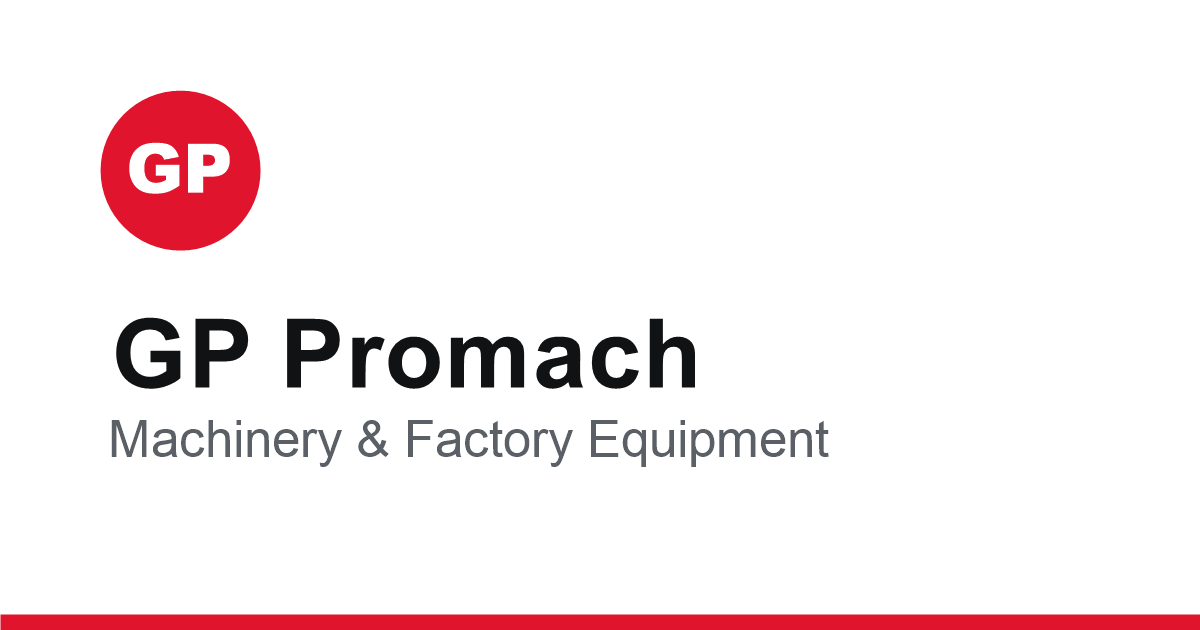
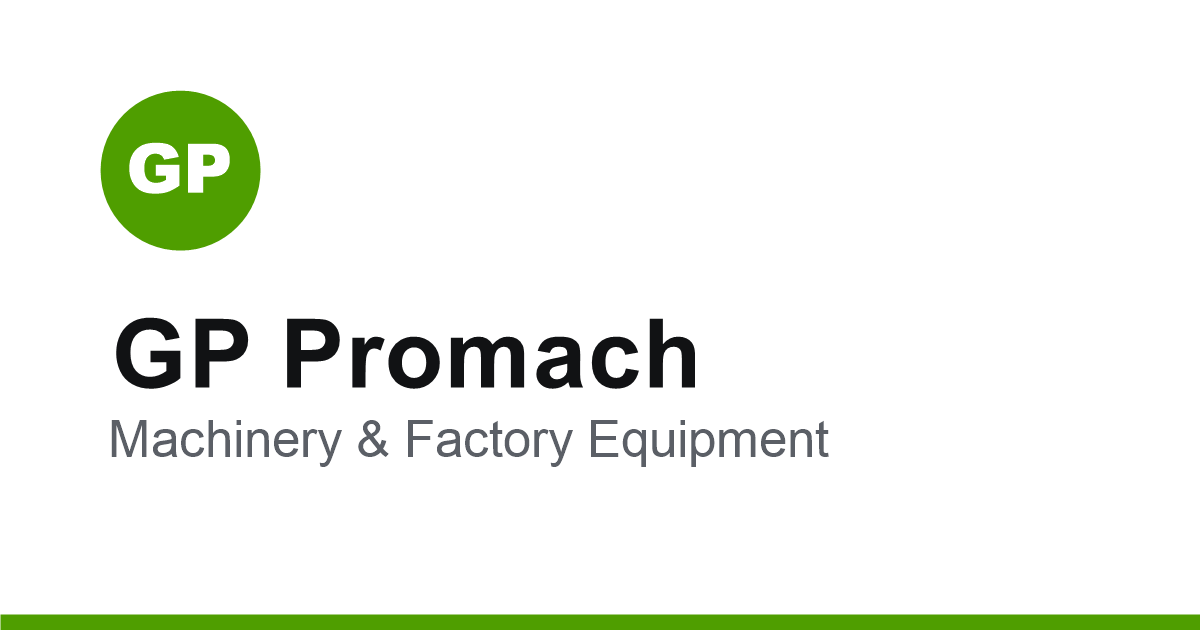
Change brand color from red to lime green

Changed region(s): [[0.0, 0.9651, 1.0, 1.0], [0.0617, 0.1206, 0.2158, 0.4222]]

diff --git a/public/index.html b/public/index.html
@@ -27,8 +27,8 @@
     --bg:#ffffff;
     --bg-alt:#f5f6f7;        /* light section */
     --bg-dark:#0d0e10;       /* dark section */
-    --red:#e0142c;           /* brand accent */
-    --red-deep:#b30f22;
+    --red:#4f9e00;           /* brand accent (lime green) */
+    --red-deep:#3d7a00;
     --radius:14px;
     --wrap:1120px;
   }
@@ -50,7 +50,7 @@
   header{position:sticky;top:0;z-index:50;background:rgba(255,255,255,.8);backdrop-filter:saturate(180%) blur(18px);border-bottom:1px solid var(--line)}
   nav{display:flex;align-items:center;justify-content:space-between;height:64px}
   .brand{display:flex;align-items:center;gap:12px;font-weight:600}
-  .logo{width:38px;height:38px;border-radius:50%;background:var(--red);display:grid;place-items:center;color:#fff;font-family:'Space Grotesk',sans-serif;font-weight:700;font-size:1rem;letter-spacing:.02em;box-shadow:0 2px 10px rgba(224,20,44,.35)}
+  .logo{width:38px;height:38px;border-radius:50%;background:var(--red);display:grid;place-items:center;color:#fff;font-family:'Space Grotesk',sans-serif;font-weight:700;font-size:1rem;letter-spacing:.02em;box-shadow:0 2px 10px rgba(79,158,0,.32)}
   .brand-name{font-size:1.05rem}
   .brand-name small{display:block;font-size:.68rem;font-weight:500;color:var(--ink-soft);letter-spacing:.08em;text-transform:uppercase;line-height:1}
   .navlinks{display:flex;gap:34px;font-size:.92rem;font-weight:500;margin-left:auto}
@@ -91,7 +91,7 @@
   .grid{display:grid;grid-template-columns:repeat(3,1fr);gap:22px}
   .card{background:var(--bg);border:1px solid var(--line);border-radius:var(--radius);padding:34px 30px;transition:transform .2s ease,box-shadow .2s ease}
   .card:hover{transform:translateY(-4px);box-shadow:0 18px 40px rgba(17,18,20,.08)}
-  .card .ico{width:44px;height:44px;border-radius:11px;background:#fdeaed;display:grid;place-items:center;margin-bottom:20px}
+  .card .ico{width:44px;height:44px;border-radius:11px;background:#e8f5d6;display:grid;place-items:center;margin-bottom:20px}
   .card .ico span{width:18px;height:18px;border:2.5px solid var(--red);border-radius:4px;display:block}
   .card h3{font-size:1.25rem;font-weight:600;margin-bottom:10px}
   .card p{color:var(--ink-soft);font-size:.97rem}

diff --git a/public/contact.html b/public/contact.html
@@ -27,8 +27,8 @@
     --bg:#ffffff;
     --bg-alt:#f5f6f7;
     --bg-dark:#0d0e10;
-    --red:#e0142c;
-    --red-deep:#b30f22;
+    --red:#4f9e00;
+    --red-deep:#3d7a00;
     --radius:14px;
     --wrap:1120px;
   }
@@ -50,7 +50,7 @@
   header{position:sticky;top:0;z-index:50;background:rgba(255,255,255,.8);backdrop-filter:saturate(180%) blur(18px);border-bottom:1px solid var(--line)}
   nav{display:flex;align-items:center;justify-content:space-between;height:64px}
   .brand{display:flex;align-items:center;gap:12px;font-weight:600}
-  .logo{width:38px;height:38px;border-radius:50%;background:var(--red);display:grid;place-items:center;color:#fff;font-family:'Space Grotesk',sans-serif;font-weight:700;font-size:1rem;letter-spacing:.02em;box-shadow:0 2px 10px rgba(224,20,44,.35)}
+  .logo{width:38px;height:38px;border-radius:50%;background:var(--red);display:grid;place-items:center;color:#fff;font-family:'Space Grotesk',sans-serif;font-weight:700;font-size:1rem;letter-spacing:.02em;box-shadow:0 2px 10px rgba(79,158,0,.32)}
   .brand-name{font-size:1.05rem}
   .brand-name small{display:block;font-size:.68rem;font-weight:500;color:var(--ink-soft);letter-spacing:.08em;text-transform:uppercase;line-height:1}
   .navlinks{display:flex;gap:34px;font-size:.92rem;font-weight:500;margin-left:auto}
